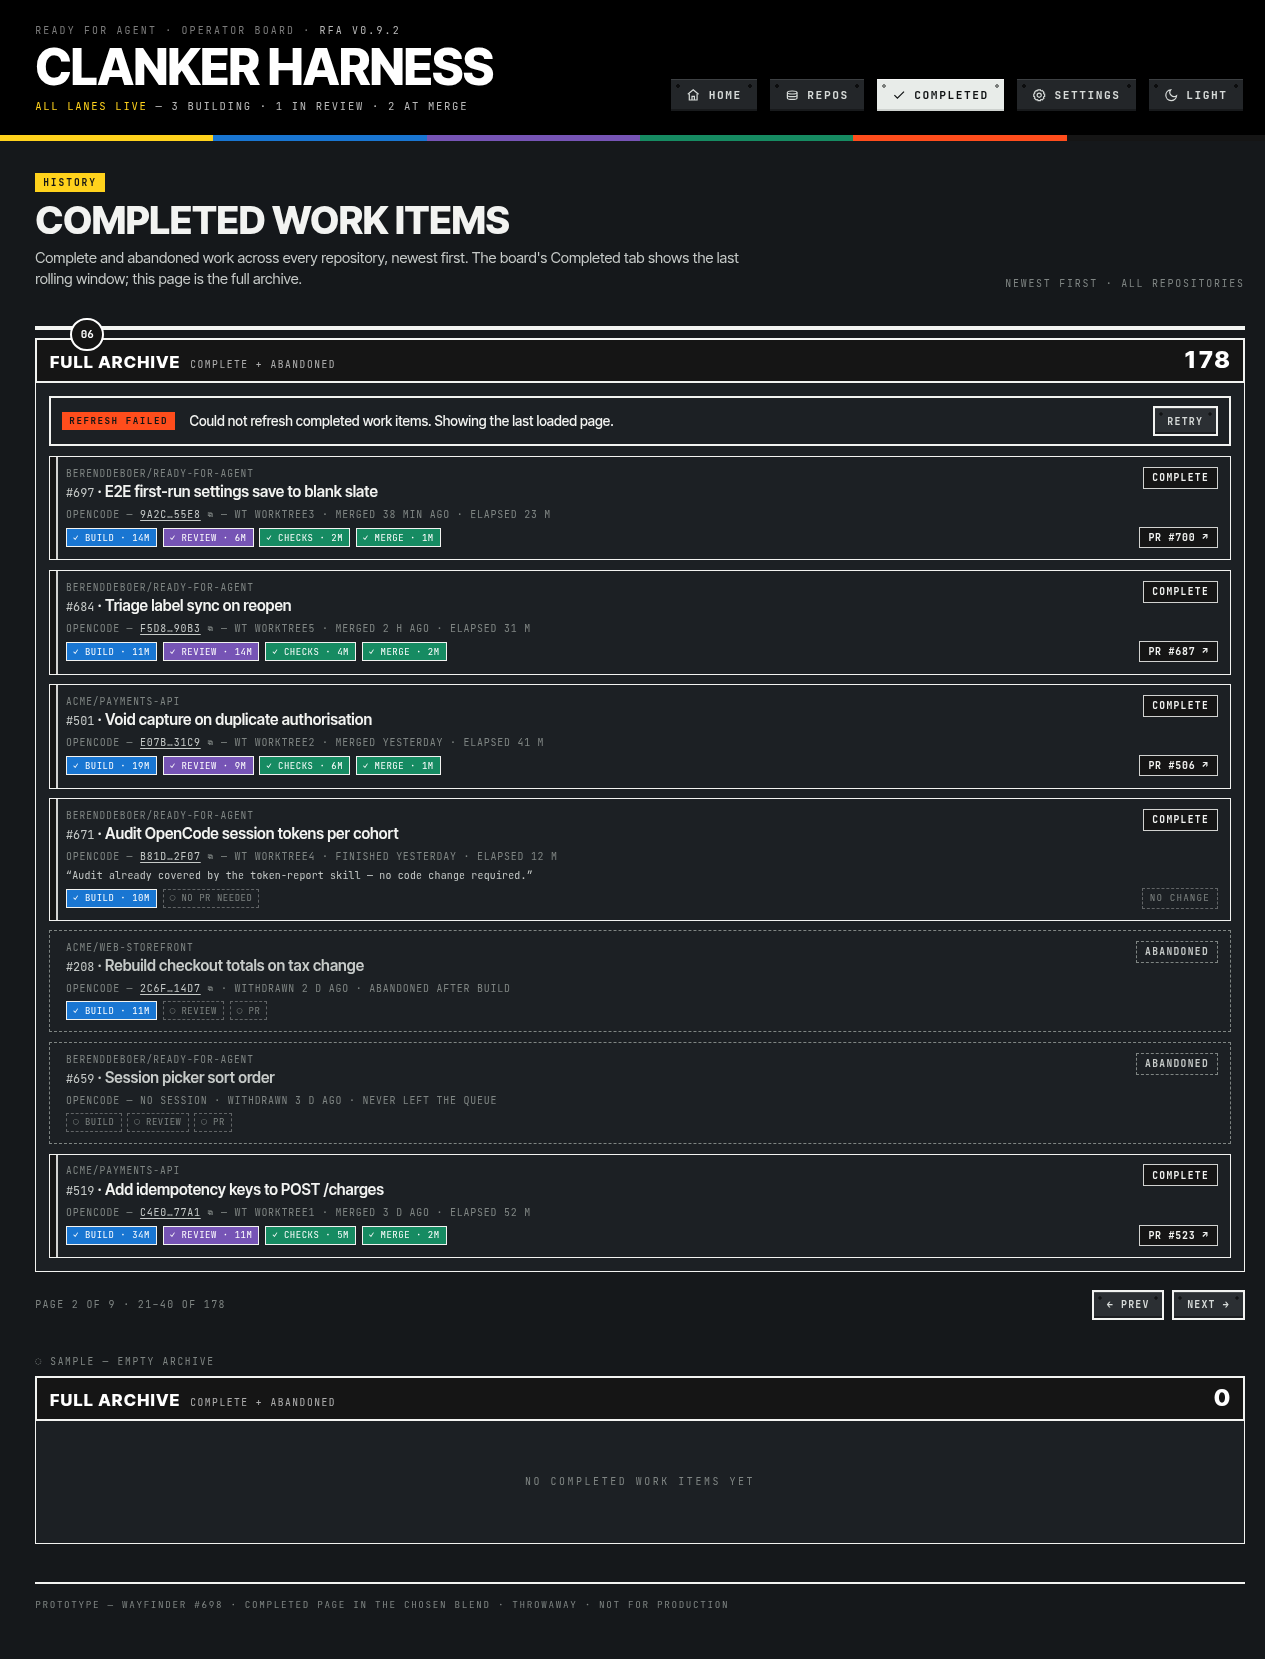
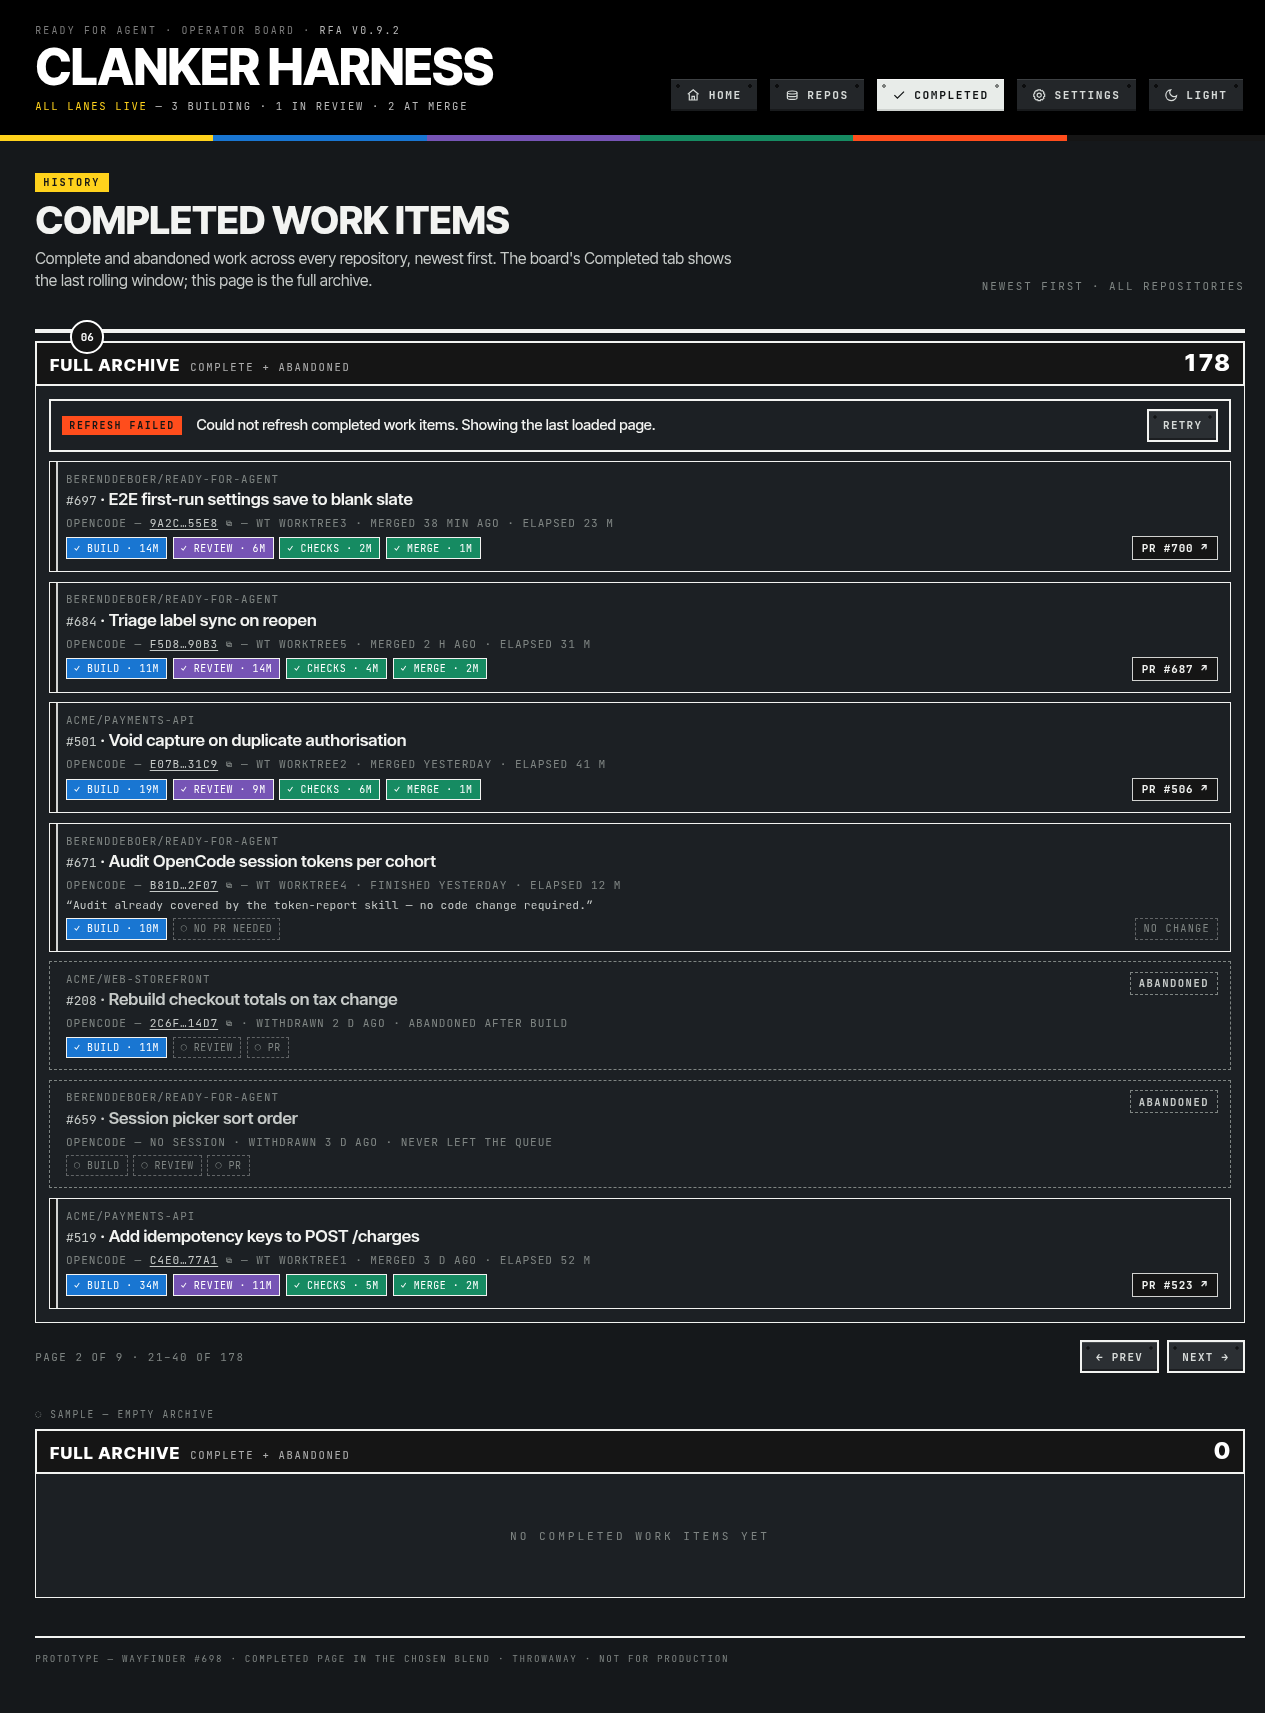
chore(harness): wayfinder #698 completed page prototype — bump archive type scale

diff --git a/apps/harness/prototypes/wayfinder-698-completed-page.html b/apps/harness/prototypes/wayfinder-698-completed-page.html
@@ -258,7 +258,7 @@
     background: var(--signal);
     color: #151515;
     font-family: var(--font-mono);
-    font-size: 0.6rem;
+    font-size: 0.64rem;
     font-weight: 700;
     letter-spacing: 0.2em;
     text-transform: uppercase;
@@ -275,14 +275,14 @@
   .lede {
     margin: 0.6rem 0 0;
     max-width: 44rem;
-    font-size: 0.92rem;
+    font-size: 0.98rem;
     line-height: 1.45;
     color: var(--ink-dim);
   }
   .pagehead-note {
     margin: 0;
     font-family: var(--font-mono);
-    font-size: 0.62rem;
+    font-size: 0.68rem;
     letter-spacing: 0.18em;
     text-transform: uppercase;
     color: var(--ink-faint);
@@ -343,7 +343,7 @@
   }
   .nb-sub {
     font-family: var(--font-mono);
-    font-size: 0.6rem;
+    font-size: 0.66rem;
     letter-spacing: 0.16em;
     text-transform: uppercase;
     color: rgb(255 255 255 / 0.65);
@@ -379,7 +379,7 @@
     background: var(--lane-attention);
     color: #151515;
     font-family: var(--font-mono);
-    font-size: 0.58rem;
+    font-size: 0.62rem;
     font-weight: 700;
     letter-spacing: 0.16em;
     text-transform: uppercase;
@@ -388,7 +388,7 @@
   }
   .banner p {
     margin: 0;
-    font-size: 0.85rem;
+    font-size: 0.92rem;
     font-weight: 500;
   }
 
@@ -421,7 +421,7 @@
   .repo {
     margin: 0;
     font-family: var(--font-mono);
-    font-size: 0.6rem;
+    font-size: 0.68rem;
     letter-spacing: 0.1em;
     text-transform: uppercase;
     color: var(--ink-faint);
@@ -431,7 +431,7 @@
   }
   .t {
     margin: 0.15rem 0 0;
-    font-size: 0.95rem;
+    font-size: 1.06rem;
     font-weight: 600;
     line-height: 1.3;
     color: var(--ink);
@@ -446,7 +446,7 @@
   }
   .t .num {
     font-family: var(--font-mono);
-    font-size: 0.74rem;
+    font-size: 0.8rem;
     font-weight: 400;
     color: var(--ink-dim);
   }
@@ -455,7 +455,7 @@
   .stamp {
     flex-shrink: 0;
     font-family: var(--font-mono);
-    font-size: 0.6rem;
+    font-size: 0.66rem;
     font-weight: 700;
     letter-spacing: 0.14em;
     text-transform: uppercase;
@@ -471,7 +471,7 @@
   .meta {
     margin: 0;
     font-family: var(--font-mono);
-    font-size: 0.62rem;
+    font-size: 0.7rem;
     letter-spacing: 0.08em;
     text-transform: uppercase;
     color: var(--ink-faint);
@@ -501,11 +501,11 @@
   }
   .leg {
     font-family: var(--font-mono);
-    font-size: 0.56rem;
+    font-size: 0.62rem;
     letter-spacing: 0.06em;
     border: 1.5px solid var(--ink);
     color: var(--ink-dim);
-    padding: 0.16rem 0.38rem;
+    padding: 0.2rem 0.44rem;
     white-space: nowrap;
   }
   .leg--lane { background: var(--leg-lane); color: var(--leg-on-lane); }
@@ -517,17 +517,17 @@
     color: var(--prbadge-ink);
     border: 1.5px solid var(--prbadge-border);
     font-family: var(--font-mono);
-    font-size: 0.62rem;
+    font-size: 0.68rem;
     font-weight: 700;
     letter-spacing: 0.08em;
-    padding: 0.2rem 0.5rem;
+    padding: 0.24rem 0.55rem;
     text-decoration: none;
   }
   a.prbadge:hover { background: var(--lane-pr); color: #ffffff; border-color: var(--lane-pr); }
   .nochange {
     margin-left: auto;
     font-family: var(--font-mono);
-    font-size: 0.58rem;
+    font-size: 0.64rem;
     letter-spacing: 0.12em;
     text-transform: uppercase;
     color: var(--ink-faint);
@@ -541,7 +541,7 @@
     padding: 2.6rem 0.5rem;
     text-align: center;
     font-family: var(--font-mono);
-    font-size: 0.62rem;
+    font-size: 0.7rem;
     letter-spacing: 0.26em;
     text-transform: uppercase;
     color: var(--ink-faint);
@@ -568,7 +568,7 @@
   .pager-note {
     margin: 0;
     font-family: var(--font-mono);
-    font-size: 0.62rem;
+    font-size: 0.68rem;
     letter-spacing: 0.14em;
     text-transform: uppercase;
     color: var(--ink-faint);
@@ -584,10 +584,10 @@
       radial-gradient(circle 1.4px at 6px 6px, var(--plate-rivet) 1.4px, transparent 1.9px),
       radial-gradient(circle 1.4px at calc(100% - 6px) 6px, var(--plate-rivet) 1.4px, transparent 1.9px);
     box-shadow: inset 0 1px 0 var(--plate-hi), inset 0 -2px 0 var(--plate-lo);
-    padding: 0.42rem 0.8rem;
+    padding: 0.46rem 0.85rem;
     color: var(--plate-ink);
     font-family: var(--font-mono);
-    font-size: 0.62rem;
+    font-size: 0.68rem;
     font-weight: 700;
     letter-spacing: 0.12em;
     text-transform: uppercase;
